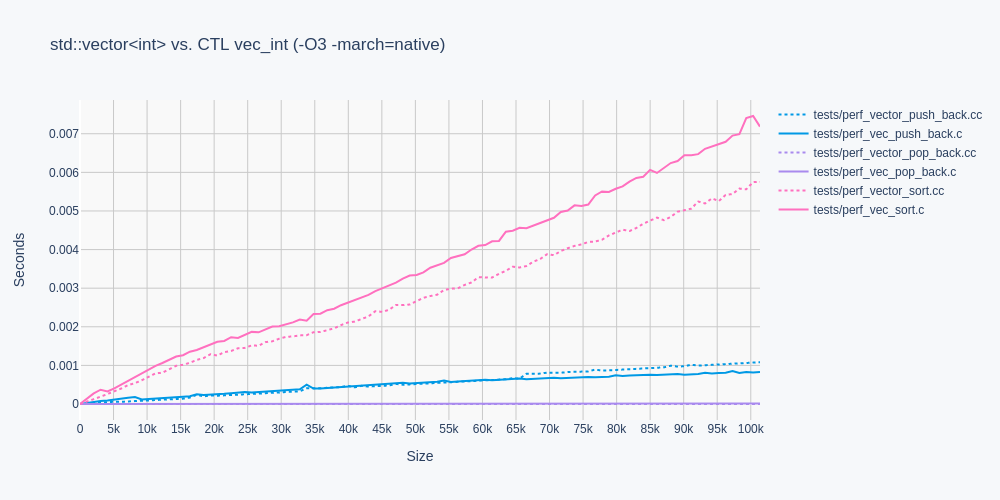
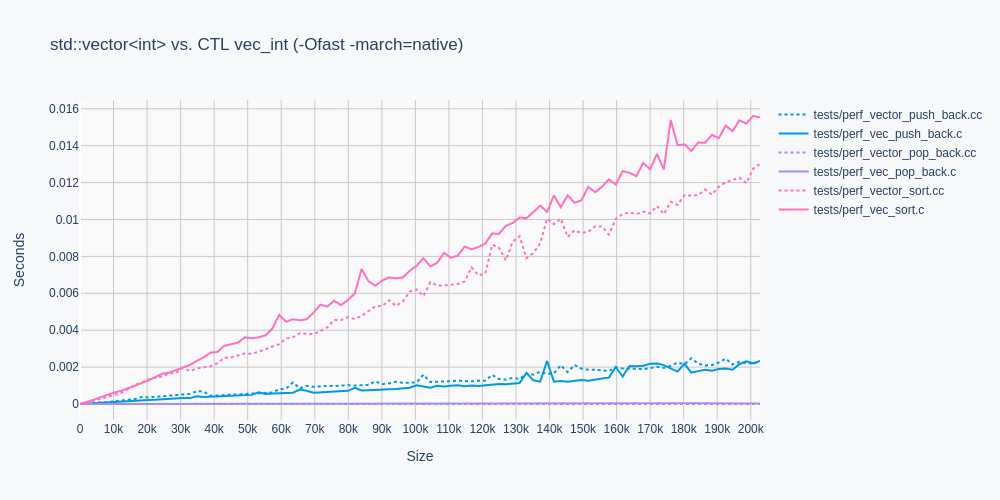
new images

diff --git a/tests/perf_plot.py b/tests/perf_plot.py
@@ -1,10 +1,6 @@
-import string
-import sys
-
-import plotly
-import plotly.express as px
 import plotly.graph_objs as go
-
+import sys
+import string
 
 def lines_from_file(log_fname):
     with open(log_fname, "r") as f:
@@ -13,9 +9,6 @@ def lines_from_file(log_fname):
     return file_lines
 
 def toggle_vec_and_vector_in_string(string):
-    """If a string contains `vector_`, replace with `vec_`.
-       If a string contains `vec_`, replace with `vec_`.
-    """
     if "vec_" in string:
         return string.replace("vec_", "vector_")
     elif "vector_" in string:
@@ -24,7 +17,6 @@ def toggle_vec_and_vector_in_string(string):
         return string
 
 def plot_data_from_file(file_lines):
-    """Returns a dict of plots"""
     name_plot_hash = {}
     fname_base = None
     fname_ext = None
@@ -39,14 +31,11 @@ def plot_data_from_file(file_lines):
             half_line_len = int(len(line)/2)
             x = int(line[:half_line_len])
             y = int(line[half_line_len:])
-
             name_plot_hash[plot_name]["num_of_ints"].append(x)
             name_plot_hash[plot_name]["time"].append(y / 1e6)
     return name_plot_hash
 
 def plot_from_data(name_plot_hash, title):
-
-   # variables for the plot
    color_for_c = "#333"
    color_for_cpp = "#888"
    grid_color = "#C9C9C9"
@@ -64,53 +53,32 @@ def plot_from_data(name_plot_hash, title):
        "#FFA600",
        "#FFA600",
    ]
-
    used_basenames = []
    trace_list = []
    for name in name_plot_hash.keys():
        name_base = name.split(".")[0]
        alt_name_base = toggle_vec_and_vector_in_string(name_base)
-       # ensure the stored name doesn't have `vec_`
-       stored_name = name_base.replace("vec_", "vector_")  
-
+       stored_name = name_base.replace("vec_", "vector_")
        if (name_base not in used_basenames or
            alt_name_base not in used_basenames):
            used_basenames.append(stored_name)
-
        color_idx = used_basenames.index(stored_name)
        trace_color = color_list[color_idx]
-
        trace = go.Scatter(
            x=name_plot_hash[name]["num_of_ints"],
            y=name_plot_hash[name]["time"],
            name=name,
            mode="lines",
            marker=dict(color=trace_color),
-           line=dict(
-               width=2,
-               dash=("dot" if name.endswith(".cc") else "solid")
-           )
+           line=dict(width=2, dash=("dot" if name.endswith(".cc") else "solid"))
        )
        trace_list.append(trace)
-
-   fig = go.Figure(
-       data=trace_list
-   )
-
+   fig = go.Figure(data=trace_list)
    fig.update_layout(
        plot_bgcolor=plot_bgcolor,
        paper_bgcolor=paper_bgcolor,
-       xaxis=dict(
-           title="Size",
-           nticks=40,
-           showgrid=True,
-           gridcolor=grid_color
-       ),
-       yaxis=dict(
-           title="Seconds",
-           showgrid=True,
-           gridcolor=grid_color
-       ),
+       xaxis=dict(title="Size", nticks=40, showgrid=True, gridcolor=grid_color),
+       yaxis=dict(title="Seconds", showgrid=True, gridcolor=grid_color),
        title=title
    )
    return fig
@@ -118,7 +86,6 @@ def plot_from_data(name_plot_hash, title):
 if __name__ == "__main__":
     filename = sys.argv[1]
     title = sys.argv[2]
-    print(f"plotting {filename}...")
     file_lines = lines_from_file(filename)
     name_plot_hash = plot_data_from_file(file_lines)
     fig = plot_from_data(name_plot_hash, title)

diff --git a/tests/perf_compile_c99.c b/tests/perf_compile_c99.c
@@ -27,26 +27,65 @@
 #define T int
 #include <vec.h>
 
+#define P
+#define T int
+#include <pqu.h>
+
 #include <str.h>
+
+static int
+compare_key_int(int* a, int* b)
+{
+    return (*a == *b) ? 0 : (*a < *b) ? -1 : 1;
+}
+
+static int
+compare_int(int* a, int* b)
+{
+    return *a < *b;
+}
 
 int main(void)
 {
     deq_int a = deq_int_init();
-    lst_int c = lst_int_init();
     vec_int b = vec_int_init();
+    lst_int c = lst_int_init();
     que_int d = que_int_init();
-    set_int e = set_int_init();
+    set_int e = set_int_create(compare_key_int);
     stk_int f = stk_int_init();
-    vec_int g = vec_int_init();
-    str h = str_init();
-    map_int_int i = map_int_int_init();
+    str g = str_create("test");
+    map_int_int h = map_int_int_create(compare_key_int);
+    pqu_int i = pqu_int_create(compare_int);
+
+    deq_int_push_back(&a, 1);
+    deq_int_push_front(&a, 1);
+    vec_int_push_back(&b, 1);
+    lst_int_push_back(&c, 1);
+    lst_int_push_front(&c, 1);
+    que_int_push(&d, 1);
+    set_int_insert(&e, 1);
+    stk_int_push(&f, 1);
+    map_int_int_insert(&h, 1, 1);
+    pqu_int_push(&i, 1);
+
+    deq_int_pop_back(&a);
+    deq_int_pop_front(&a);
+    vec_int_pop_back(&b);
+    lst_int_pop_back(&c);
+    lst_int_pop_front(&c);
+    que_int_pop(&d);
+    set_int_erase(&e, 1);
+    stk_int_pop(&f);
+    map_int_int_erase(&h, 1);
+    pqu_int_pop(&i);
+
     deq_int_free(&a);
     lst_int_free(&c);
     vec_int_free(&b);
     que_int_free(&d);
     set_int_free(&e);
     stk_int_free(&f);
-    vec_int_free(&g);
-    str_free(&h);
-    map_int_int_free(&i);
+    str_free(&g);
+    map_int_int_free(&h);
+    pqu_int_free(&i);
 }

diff --git a/tests/perf_plot_bar.py b/tests/perf_plot_bar.py
@@ -3,17 +3,18 @@ import sys
 
 if __name__ == '__main__':
     filename = sys.argv[1]
-    a = sys.argv[2]
-    b = sys.argv[3]
-    c = sys.argv[4]
-    d = sys.argv[5]
-    e = sys.argv[6]
-    f = sys.argv[7]
-    compiler=[e, f]
-    y = [float(a), float(b)]
+    title = sys.argv[2]
+    time_a = sys.argv[3]
+    time_b = sys.argv[4]
+    size_a = sys.argv[5]
+    size_b = sys.argv[6]
+    name_a = sys.argv[7]
+    name_b = sys.argv[8]
+    compiler=[name_a, name_b]
+    y = [float(time_a), float(time_b)]
     sizes = [
-        str(int(c) / 1000) + ' KB',
-        str(int(d) / 1000) + ' KB',
+        str(int(size_a) / 1000) + ' KB',
+        str(int(size_b) / 1000) + ' KB',
     ]
     colors = ['crimson', 'darkslateblue']
     fig = go.Figure([go.Bar(x=compiler, y=y, text=sizes, textposition='auto', marker_color=colors)])
@@ -21,7 +22,7 @@ if __name__ == '__main__':
     plot_bgcolor = "#F9F9F9"
     paper_bgcolor = "#F6F8FA"
     fig.update_layout(
-            title_text="CTL vs STL Compile Time (-O3 -march=native)",
+            title_text=title,
             plot_bgcolor=plot_bgcolor, paper_bgcolor=paper_bgcolor)
     fig.write_image("%s.png" % filename, width=1000, height=300)
 

diff --git a/tests/perf_compile_cc.cc b/tests/perf_compile_cc.cc
@@ -10,11 +10,34 @@
 int main()
 {
     std::deque<int> a;
-    std::list<int> b;
-    std::map<int, int> c;
+    std::vector<int>b;
+    std::list<int> c;
     std::queue<int> d;
     std::set<int> e;
     std::stack<int> f;
-    std::vector<int>g;
-    std::string h;
+    std::string g;
+    std::map<int, int> h;
+    std::priority_queue<int> i;
+
+    a.push_back(1);
+    a.push_front(1);
+    b.push_back(1);
+    c.push_back(1);
+    c.push_front(1);
+    d.push(1);
+    e.insert(1);
+    f.push(1);
+    h.insert(std::pair<int, int>(1, 1));
+    i.push(1);
+
+    a.pop_back();
+    a.pop_front();
+    b.pop_back();
+    c.pop_back();
+    c.pop_front();
+    d.pop();
+    e.erase(1);
+    f.pop();
+    h.erase(1);
+    i.pop();
 }

diff --git a/tests/test.h b/tests/test.h
@@ -26,7 +26,7 @@
 
 #define TEST_PERF_RUNS (100)
 
-#define TEST_PERF_CHUNKS (1024)
+#define TEST_PERF_CHUNKS (2048)
 
 static inline int
 TEST_TIME(void)

diff --git a/README.md b/README.md
@@ -92,12 +92,11 @@ To run all functional tests, run:
 
     make
 
-To run performance tests that generate graph output comparing CTL
-and STL performance, run:
+To generate performance graphs, run:
 
-    make perf
+    sh gen_images.sh
 
-Graphing requires Python3 and the Plotly family of libraries via pip3.
+Graphing requires python3 and the Plotly family of libraries via pip3.
 
 ## Acknowledgements
 
